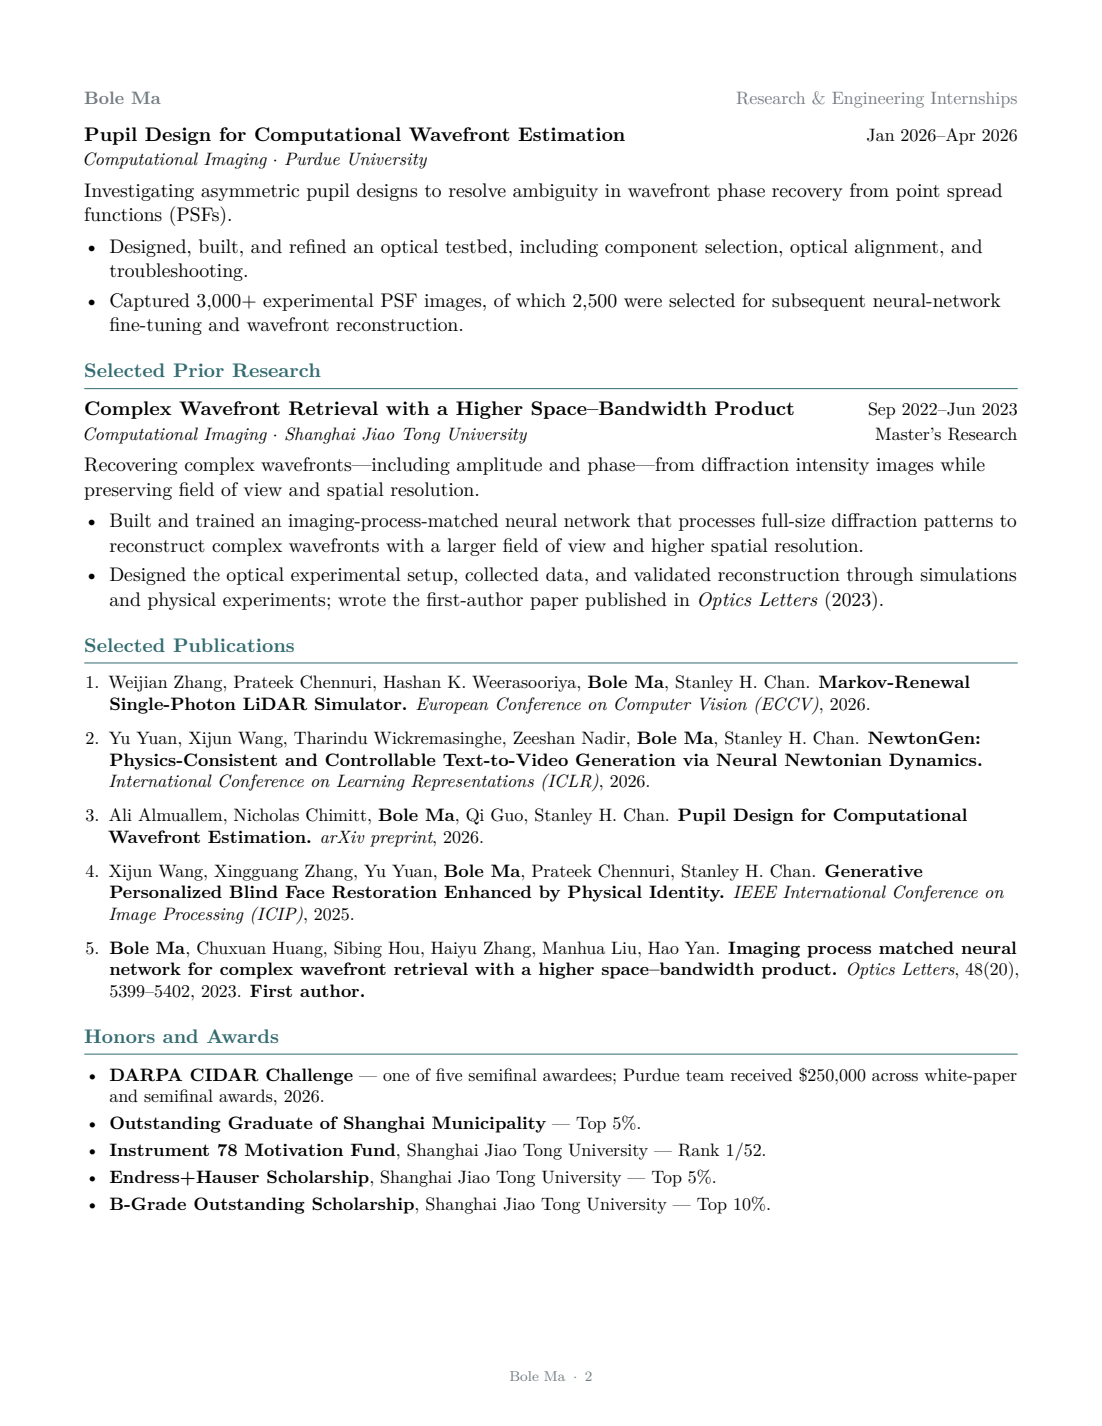
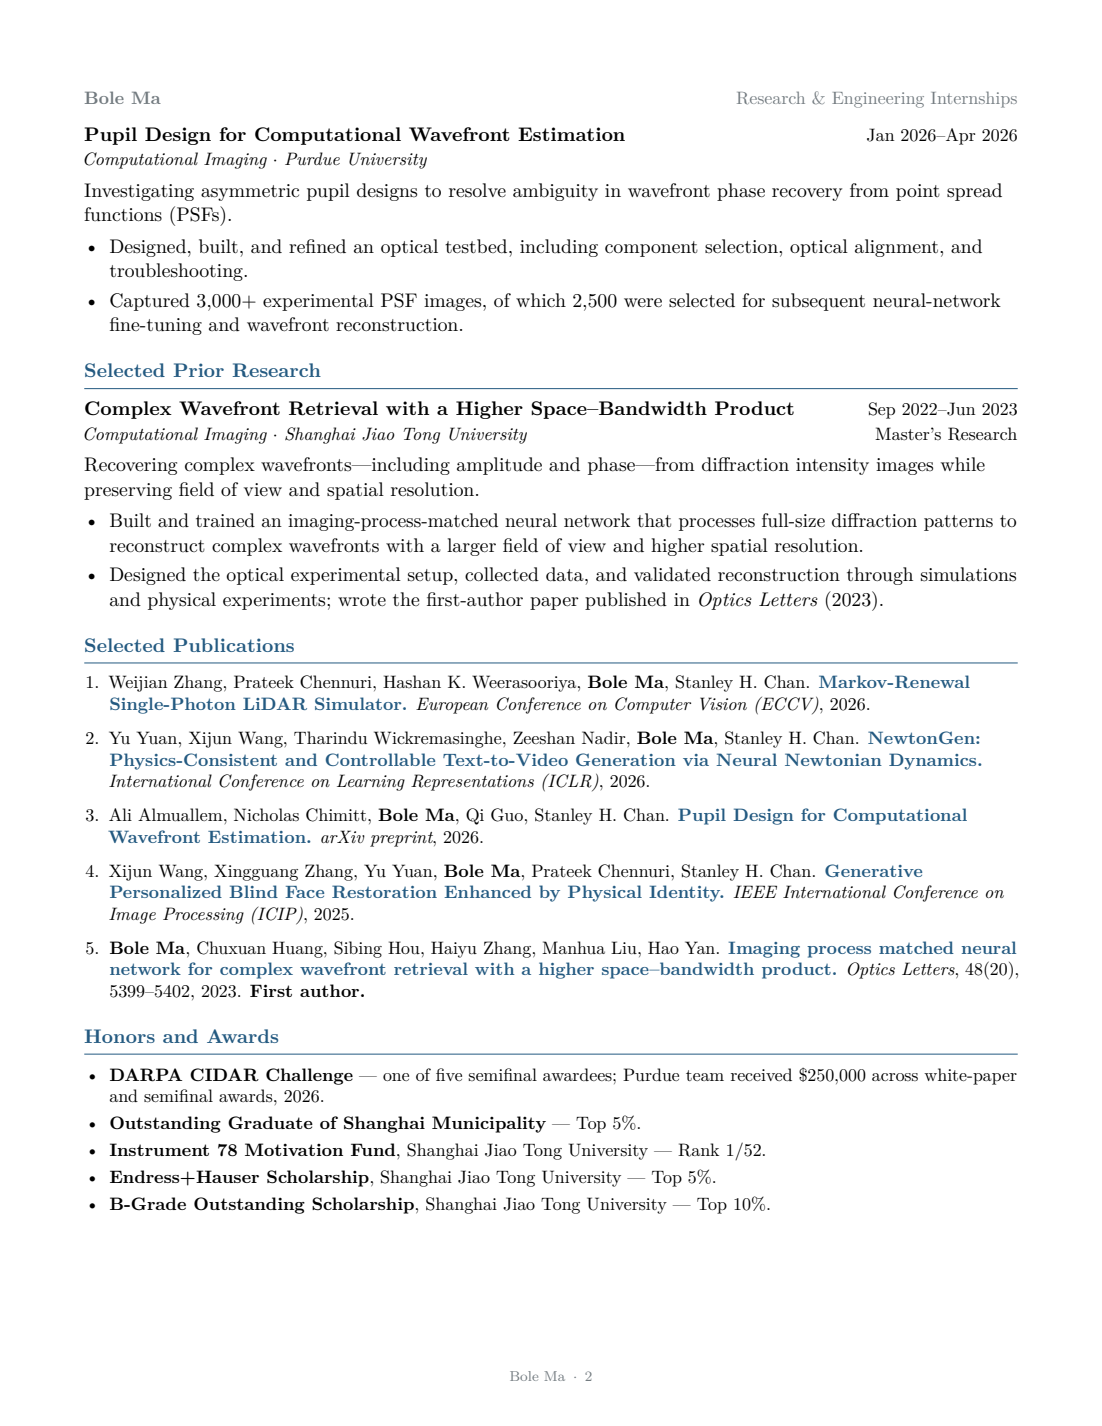
update GPA and project link

diff --git a/index.html b/index.html
@@ -86,11 +86,12 @@
       <section id="news" aria-labelledby="news-heading">
         <h2 id="news-heading">News</h2>
         <ul class="news-list">
-          <li><span class="news-date">Jun 2026</span><span><a href="https://link.springer.com/chapter/10.1007/978-3-032-37359-5_11" target="_blank" rel="noopener noreferrer">Markov-Renewal Single-Photon LiDAR Simulator</a> was accepted to ECCV 2026.</span></li>
-          <li><span class="news-date">Apr 2026</span><span><a href="https://arxiv.org/abs/2604.00225" target="_blank" rel="noopener noreferrer">Pupil Design for Computational Wavefront Estimation</a> is available as a preprint.</span></li>
+          <li><span class="news-date">Sep 2026</span><span><a href="https://stanleychangroup.github.io/WavefrontPupilDesign/" target="_blank" rel="noopener noreferrer">Pupil Design for Computational Wavefront Estimation</a> was accepted to <em>Optics Express</em>.</span></li>
+          <li><span class="news-date">Jun 2026</span><span><a href="https://mars-splidar.github.io/" target="_blank" rel="noopener noreferrer">Markov-Renewal Single-Photon LiDAR Simulator</a> was accepted to ECCV 2026.</span></li>
+          <li><span class="news-date">Apr 2026</span><span><a href="https://stanleychangroup.github.io/WavefrontPupilDesign/" target="_blank" rel="noopener noreferrer">Pupil Design for Computational Wavefront Estimation</a> is available as a preprint.</span></li>
           <li><span class="news-date">Jan 2026</span><span>Led Purdue's student team to the semifinal round of the <a href="https://engineering.purdue.edu/ECE/News/2026/purdue-ece-team-advances-in-darpa-imaging-challenge" target="_blank" rel="noopener noreferrer">DARPA CIDAR Challenge</a>; the team earned $250,000 in awards.</span></li>
-          <li><span class="news-date">Jan 2026</span><span><a href="https://openreview.net/forum?id=rJ6N6sunaU" target="_blank" rel="noopener noreferrer">NewtonGen: Physics-Consistent and Controllable Text-to-Video Generation via Neural Newtonian Dynamics</a> was accepted to ICLR 2026.</span></li>
-          <li><span class="news-date">May 2025</span><span><a href="https://doi.org/10.1109/ICIP55913.2025.11084394" target="_blank" rel="noopener noreferrer">Generative Personalized Blind Face Restoration Enhanced by Physical Identity</a> was accepted to ICIP 2025.</span></li>
+          <li><span class="news-date">Jan 2026</span><span><a href="https://yuyuanspace.com/NewtonGen/" target="_blank" rel="noopener noreferrer">NewtonGen: Physics-Consistent and Controllable Text-to-Video Generation via Neural Newtonian Dynamics</a> was accepted to ICLR 2026.</span></li>
+          <li><span class="news-date">May 2025</span><span><a href="https://genai-restore.github.io/DiffPGD/" target="_blank" rel="noopener noreferrer">Generative Personalized Blind Face Restoration Enhanced by Physical Identity</a> was accepted to ICIP 2025.</span></li>
           <li><span class="news-date">Sep 2023</span><span><a href="https://doi.org/10.1364/OL.499624" target="_blank" rel="noopener noreferrer">Imaging process matched neural network for complex wavefront retrieval with a higher space–bandwidth product</a> was accepted to <em>Optics Letters</em>.</span></li>
         </ul>
       </section>

diff --git a/cv/index.html b/cv/index.html
@@ -61,7 +61,8 @@
     @media(prefers-reduced-motion:reduce) { html { scroll-behavior:auto; } }
     .site-nav a[aria-current="page"] { color:var(--link); font-weight:700; }
     .cv-actions { display:flex; flex-wrap:wrap; gap:10px 24px; margin-bottom:20px; }
-    .cv-preview { display:block; width:100%; height:auto; border:1px solid var(--rule); margin-bottom:20px; }
+    .cv-preview { display:block; width:100%; height:80vh; min-height:620px; border:1px solid var(--rule); background:#292929; }
+    @media(max-width:760px) { .cv-preview { height:75vh; min-height:480px; } }
     
   </style>
 </head>
@@ -86,8 +87,7 @@
           <a href="/files/Bole_Ma_CV.pdf" target="_blank" rel="noopener noreferrer">Open PDF in a new tab</a>
           <a href="/files/Bole_Ma_CV.pdf" download="Bole_Ma_CV.pdf">Download CV</a>
         </div>
-        <img class="cv-preview" src="/files/cv-page-1.png" alt="Bole Ma CV, page 1: education, technical skills, and research experience">
-        <img class="cv-preview" src="/files/cv-page-2.png" alt="Bole Ma CV, page 2: prior research, publications, and awards" loading="lazy">
+        <embed class="cv-preview" src="/files/Bole_Ma_CV.pdf#toolbar=1&amp;navpanes=1&amp;view=FitH" type="application/pdf" title="Bole Ma CV — PDF reader">
       </section>
     </main>
   </div>
